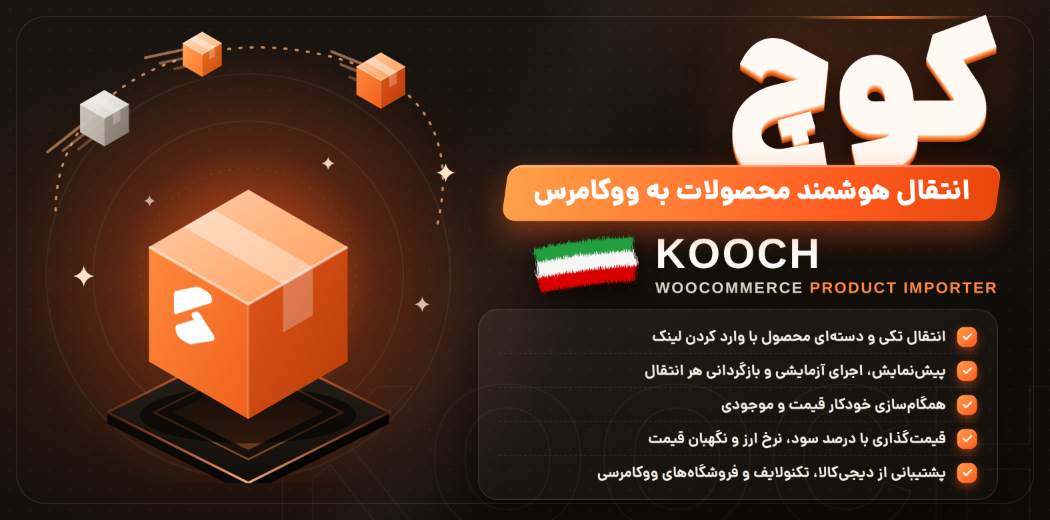
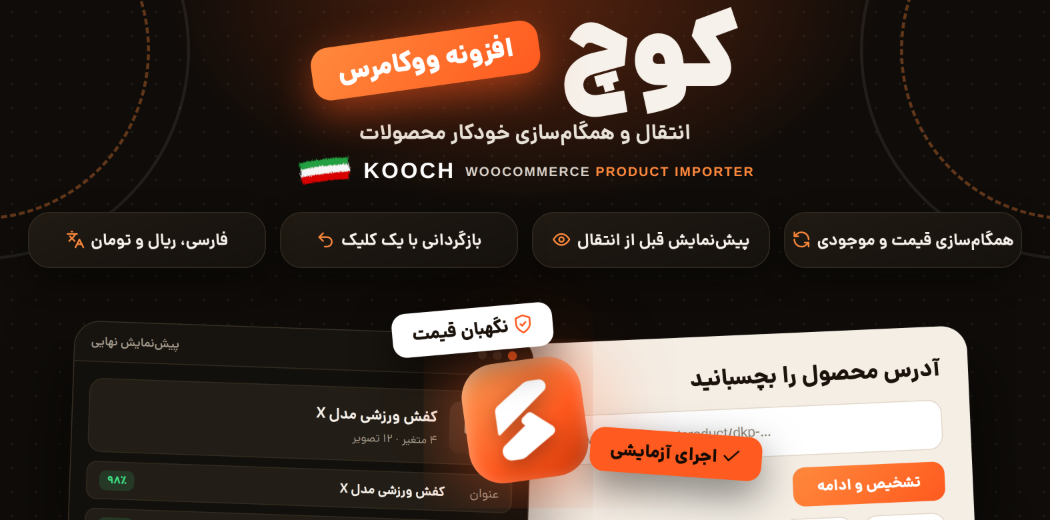
Kooch cover: restore preferred layout, add English name and Iranian flag per RTL standard
Claude-Session: https://claude.ai/code/session_01HjGiyHhZHcoV6ExRpRRqKD

diff --git a/kooch-showcase/cover.html b/kooch-showcase/cover.html
@@ -1,60 +1,80 @@
-<!doctype html><html lang="fa" dir="rtl"><head><meta charset="utf-8"><title>کوچ | کاور</title><style>
+<!doctype html><html lang="fa" dir="rtl"><head><meta charset="utf-8"><title>کوچ | کاور</title>
+<style>
 @font-face{font-family:Dana;src:url(DanaVF.ttf);font-weight:100 1000}
+:root{--o:#ff5a1f;--o2:#ff8a3d;--bg:#0f0c09;--card:#191510;--card2:#221d16;--line:#332b21;--tx:#f6f1ea;--mu:#a39a8c;--ok:#3ddc84}
 *{box-sizing:border-box;margin:0;padding:0}
-body{background:#000;font-family:Dana,Tahoma,sans-serif}
-.c{width:1050px;height:520px;position:relative;overflow:hidden;background:
- radial-gradient(520px 380px at 23% 58%,rgba(255,90,31,.20),transparent 70%),
- radial-gradient(420px 260px at 80% 0,rgba(255,138,61,.12),transparent 70%),
- linear-gradient(115deg,transparent 40%,rgba(255,255,255,.035) 48%,transparent 56%),
- radial-gradient(rgba(255,255,255,.05) 1px,transparent 1.3px) 0 0/20px 20px,
- linear-gradient(160deg,#1b1611,#0e0b08)}
-.wm{position:absolute;right:-30px;bottom:-60px;font-family:Arial Black,Arial,sans-serif;font-size:210px;font-weight:900;color:transparent;-webkit-text-stroke:1.5px rgba(255,255,255,.045);letter-spacing:6px}
-.frame{position:absolute;inset:16px;border:1.5px solid rgba(255,255,255,.10);border-radius:30px}
-.frame::before{content:"";position:absolute;right:60px;top:-1.5px;width:180px;height:3px;border-radius:3px;background:linear-gradient(90deg,transparent,#ff7a2d,transparent)}
-.vec{position:absolute;left:18px;top:-6px;width:470px;height:489px}
-.r{position:absolute;right:52px;top:22px;width:520px;text-align:right}
-h1{font-size:140px;font-weight:950;line-height:1.05;color:#fff9f3;letter-spacing:-3px;text-shadow:0 1px 0 #ffd9bf,0 2px 0 #ffb27a,0 3px 0 #ff9548,0 4px 0 #f97a30,0 5px 0 #e8621c,0 6px 0 #d4500f,0 7px 0 #bd440a,0 18px 34px rgba(0,0,0,.65),0 0 60px rgba(255,90,31,.25)}
-.ban{position:relative;display:inline-block;margin-top:-4px;background:linear-gradient(90deg,#ffa04a,#ff5a1f 70%,#e8460c);color:#fff;font-weight:900;font-size:27px;padding:7px 28px 10px;border-radius:14px;transform:skewX(-8deg);box-shadow:0 12px 30px rgba(255,90,31,.45),inset 0 2px 0 rgba(255,255,255,.35)}
-.ban span{display:inline-block;transform:skewX(8deg)}
-.en{display:flex;align-items:center;justify-content:flex-end;gap:10px;margin-top:10px;direction:ltr}
-.en .t{text-align:left}
-.en b{display:block;font-family:Arial Black,Arial,sans-serif;font-size:42px;font-weight:900;color:#fff;letter-spacing:2px;line-height:1}
-.en small{display:block;font-family:Arial,sans-serif;font-size:15.5px;font-weight:700;color:#d9d2c9;letter-spacing:1.6px;margin-top:5px}
+body{background:#000;font-family:Dana,Tahoma,sans-serif;color:var(--tx)}
+.i{width:1.15em;height:1.15em;vertical-align:-.22em;fill:none;stroke:currentColor;stroke-width:2;stroke-linecap:round;stroke-linejoin:round}
+.t{width:1050px;height:520px;position:relative;overflow:hidden;background:
+ radial-gradient(520px 300px at 50% 0,rgba(255,90,31,.30),transparent 70%),
+ radial-gradient(rgba(255,255,255,.06) 1.2px,transparent 1.4px) 0 0/24px 24px,var(--bg)}
+/* side route arcs */
+.arc{position:absolute;top:-120px;width:340px;height:340px;border-radius:50%;border:3px dashed rgba(255,138,61,.35)}
+.arc.l{left:-190px}.arc.r{right:-190px}
+.arc.l2{left:-230px;top:-160px;width:420px;height:420px;border-color:rgba(255,255,255,.08);border-style:solid}
+.arc.r2{right:-230px;top:-160px;width:420px;height:420px;border-color:rgba(255,255,255,.08);border-style:solid}
+.head{position:absolute;top:14px;left:0;right:0;text-align:center}
+.title{display:inline-flex;align-items:center;gap:20px;direction:rtl}
+.title h1{font-size:92px;font-weight:950;line-height:1;color:var(--tx);letter-spacing:-2px}
+.badge{background:linear-gradient(135deg,var(--o2),var(--o));color:#fff;font-weight:900;font-size:26px;padding:8px 26px;border-radius:18px;transform:rotate(-8deg);box-shadow:0 12px 40px rgba(255,90,31,.55)}
+.sub{margin-top:12px;font-size:21px;font-weight:700;color:#e8e2d9}
+.pills{position:absolute;top:212px;left:28px;right:28px;display:flex;gap:14px;direction:rtl}
+.pill{flex:1;background:linear-gradient(160deg,#211b14,#15110d);border:1px solid var(--line);border-radius:22px;padding:15px 6px;text-align:center;white-space:nowrap;font-size:16.5px;font-weight:700;position:relative;box-shadow:0 10px 30px rgba(0,0,0,.4)}
+
+.pill .i{color:var(--o2);margin-inline-start:6px}
+/* panels */
+.p{position:absolute;bottom:-78px;border-radius:26px;overflow:hidden;box-shadow:0 30px 70px rgba(0,0,0,.65)}
+.light{right:78px;width:500px;height:262px;background:#f4eee5;color:#1a120b;transform:rotate(-2.5deg);padding:26px 28px}
+.light h3{font-size:23px;font-weight:800;margin-bottom:14px}
+.in{background:#fff;border:1px solid #e2d8c9;border-radius:14px;padding:14px 16px;color:#8a7f70;font-size:14px;direction:ltr;text-align:left}
+.cta{display:inline-block;margin-top:12px;background:linear-gradient(135deg,var(--o2),var(--o));color:#fff;font-weight:800;padding:9px 24px;border-radius:12px;font-size:15px}
+.det{display:flex;gap:8px;margin-top:12px;direction:rtl}
+.det span{background:#fff;border:1px solid #e2d8c9;border-radius:99px;padding:5px 12px;font-size:12.5px;color:#4a3f31}
+.dark{left:70px;width:460px;height:270px;background:#12100c;border:1px solid #3a3126;transform:rotate(2deg)}
+.dark .bar{display:flex;gap:6px;align-items:center;padding:11px 16px;background:#17130e;border-bottom:1px solid var(--line);font-size:12px;color:var(--mu)}
+.dark .bar i{width:9px;height:9px;border-radius:50%;background:#3a3126}.dark .bar i:first-child{background:var(--o)}.dark .bar b{margin-inline-start:auto;font-weight:600}
+.dark .b{padding:16px;display:flex;flex-direction:column;gap:9px}
+.prod{display:flex;gap:12px;align-items:center;background:var(--card2);border:1px solid var(--line);border-radius:14px;padding:10px 12px}
+.prod .im{width:52px;height:52px;border-radius:10px;background:linear-gradient(135deg,#3a3128,#221c15);display:grid;place-items:center;color:var(--mu)}
+.prod .im .i{width:26px;height:26px}
+.fld{display:flex;align-items:center;gap:10px;background:var(--card2);border:1px solid var(--line);border-radius:10px;padding:8px 12px;font-size:13px}
+.fld .l{color:var(--mu);width:44px}.fld .v{flex:1;font-weight:700}
+.cf{font-size:11px;font-weight:800;padding:2px 8px;border-radius:7px;background:rgba(61,220,132,.15);color:var(--ok)}
+/* center icon */
+.core{position:absolute;left:50%;bottom:40px;width:120px;height:120px;border-radius:34px;background:linear-gradient(145deg,#ffa25a,var(--o) 60%,#d93a08);display:grid;place-items:center;box-shadow:0 0 90px rgba(255,90,31,.7),inset 0 4px 16px rgba(255,255,255,.35);z-index:5;transform:translateX(-50%) rotate(-8deg)}
+.core img{width:80px;filter:brightness(0) invert(1) drop-shadow(0 6px 10px rgba(0,0,0,.3))}
+.chip{position:absolute;background:#fff;color:#1a120b;font-weight:800;font-size:18px;padding:9px 20px;border-radius:14px;box-shadow:0 14px 40px rgba(0,0,0,.5);z-index:6}
+.chip .i{color:var(--o)}
+.c1{left:392px;bottom:168px;transform:rotate(-5deg)}
+.c2{left:590px;bottom:44px;transform:rotate(4deg);background:var(--o);color:#150b04}.c2 .i{color:#150b04}
+.arrow{position:absolute;bottom:150px;height:0;border-top:3px dashed rgba(255,138,61,.9);z-index:4}
+.en{display:inline-flex;align-items:center;gap:10px;margin-top:6px;direction:ltr}
+.en b{font-family:Arial Black,Arial,sans-serif;font-size:22px;font-weight:900;color:#fff;letter-spacing:2px}
+.en small{font-family:Arial,sans-serif;font-size:13px;font-weight:700;color:#d9d2c9;letter-spacing:1.4px}
 .en small em{font-style:normal;color:#ff8a3d}
-.flag{width:118px;height:68px;filter:drop-shadow(0 6px 10px rgba(0,0,0,.5))}
-ul{list-style:none;margin-top:10px;background:linear-gradient(160deg,rgba(255,255,255,.06),rgba(255,255,255,.015));border:1px solid rgba(255,255,255,.10);border-radius:20px;padding:10px 20px;box-shadow:0 16px 40px rgba(0,0,0,.35)}
-li{color:#f4eee6;font-size:15px;font-weight:700;line-height:1;display:flex;align-items:center;gap:11px;padding:6.5px 0;border-bottom:1px dashed rgba(255,255,255,.07)}
-li:last-child{border:0}
-li i{width:20px;height:20px;border-radius:7px;background:linear-gradient(135deg,#ffa04a,#ff5a1f);display:grid;place-items:center;flex:none;box-shadow:0 4px 10px rgba(255,90,31,.45)}
-li i svg{width:13px;height:13px}
-</style></head><body><div class="c"><div class="wm">KOOCH</div><div class="frame"></div><svg class="vec" viewBox="0 0 500 520" xmlns="http://www.w3.org/2000/svg">
-<defs>
-<filter id="white"><feFlood flood-color="#fff"/><feComposite in2="SourceAlpha" operator="in"/></filter>
-<radialGradient id="gl"><stop offset="0" stop-color="#ff5a1f" stop-opacity=".8"/><stop offset=".55" stop-color="#ff5a1f" stop-opacity=".18"/><stop offset="1" stop-color="#ff5a1f" stop-opacity="0"/></radialGradient>
-<linearGradient id="plat" x1="0" y1="0" x2="0" y2="1"><stop offset="0" stop-color="#2a221b"/><stop offset="1" stop-color="#120e0b"/></linearGradient>
-<linearGradient id="edge" x1="0" y1="0" x2="1" y2="0"><stop offset="0" stop-color="#ff5a1f" stop-opacity=".2"/><stop offset=".5" stop-color="#ffb27a"/><stop offset="1" stop-color="#ff5a1f" stop-opacity=".2"/></linearGradient>
-<linearGradient id="beam" x1="0" y1="1" x2="0" y2="0"><stop offset="0" stop-color="#ff7a2d" stop-opacity=".55"/><stop offset="1" stop-color="#ff7a2d" stop-opacity="0"/></linearGradient>
-</defs>
-<circle cx="245" cy="300" r="250" fill="url(#gl)"/>
-<g fill="none" stroke="#fff" stroke-opacity=".06" stroke-width="1.5"><circle cx="245" cy="300" r="215"/><circle cx="245" cy="300" r="165"/><circle cx="245" cy="300" r="115" stroke-dasharray="3 7"/></g>
-<!-- platform -->
-<polygon points="245,370 395,445 245,520 95,445" fill="url(#plat)"/>
-<polygon points="95,445 245,520 245,532 95,457" fill="#0b0907"/><polygon points="245,520 395,445 395,457 245,532" fill="#070504"/>
-<polyline points="95,445 245,370 395,445 245,520 95,445" fill="none" stroke="url(#edge)" stroke-width="2.5"/>
-<polygon points="245,395 345,445 245,495 145,445" fill="none" stroke="#ff8a3d" stroke-opacity=".45" stroke-width="2"/>
-<polygon points="165,445 245,405 325,445 245,485" fill="url(#beam)" opacity=".7"/>
-<!-- route -->
-<path d="M40 230 C 40 110, 170 40, 300 60 S 470 150, 445 250" fill="none" stroke="#ffb27a" stroke-opacity=".75" stroke-width="2.5" stroke-dasharray="2 10" stroke-linecap="round"/>
-<line x1="92" y1="123" x2="22" y2="123" stroke="#ffb27a" stroke-opacity="0.55" stroke-width="3" stroke-linecap="round" transform="rotate(-38 92 132)"/><line x1="92" y1="132" x2="36" y2="132" stroke="#ffb27a" stroke-opacity="0.43000000000000005" stroke-width="3" stroke-linecap="round" transform="rotate(-38 92 132)"/><line x1="92" y1="141" x2="50" y2="141" stroke="#ffb27a" stroke-opacity="0.31000000000000005" stroke-width="3" stroke-linecap="round" transform="rotate(-38 92 132)"/><defs><linearGradient id="t1" x1="0" y1="0" x2="1" y2="1"><stop offset="0" stop-color="#ffffff"/><stop offset="1" stop-color="#e2ddd6"/></linearGradient><linearGradient id="l1" x1="0" y1="0" x2="1" y2="1"><stop offset="0" stop-color="#d6cfc6"/><stop offset="1" stop-color="#b9b0a5"/></linearGradient><linearGradient id="r1" x1="0" y1="0" x2="1" y2="1"><stop offset="0" stop-color="#a39a8e"/><stop offset="1" stop-color="#857c71"/></linearGradient></defs><g opacity="0.95"><polygon points="92,102 117.98,117.0 92,132 66.02,117.0" fill="url(#t1)"/><polygon points="66.02,117.0 92,132 92,162 66.02,147.0" fill="url(#l1)"/><polygon points="92,132 117.98,117.0 117.98,147.0 92,162" fill="url(#r1)"/><polyline points="66.02,117.0 92,132 117.98,117.0" fill="none" stroke="#fff" stroke-opacity=".55" stroke-width="1"/><line x1="92" y1="132" x2="92" y2="162" stroke="#fff" stroke-opacity=".18" stroke-width="1"/><polygon points="75.113,111.75 101.09299999999999,126.75 108.887,122.25 82.90700000000001,107.25" fill="#fff" fill-opacity=".38"/><polygon points="101.09299999999999,126.75 108.887,122.25 108.887,134.85 101.09299999999999,139.35" fill="#fff" fill-opacity=".25"/></g>
-<line x1="196" y1="55" x2="136" y2="55" stroke="#ffb27a" stroke-opacity="0.55" stroke-width="3" stroke-linecap="round" transform="rotate(-12 196 64)"/><line x1="196" y1="64" x2="150" y2="64" stroke="#ffb27a" stroke-opacity="0.43000000000000005" stroke-width="3" stroke-linecap="round" transform="rotate(-12 196 64)"/><line x1="196" y1="73" x2="164" y2="73" stroke="#ffb27a" stroke-opacity="0.31000000000000005" stroke-width="3" stroke-linecap="round" transform="rotate(-12 196 64)"/><defs><linearGradient id="t2" x1="0" y1="0" x2="1" y2="1"><stop offset="0" stop-color="#ffe0c2"/><stop offset="1" stop-color="#ffb47a"/></linearGradient><linearGradient id="l2" x1="0" y1="0" x2="1" y2="1"><stop offset="0" stop-color="#ffa35a"/><stop offset="1" stop-color="#ff7a2d"/></linearGradient><linearGradient id="r2" x1="0" y1="0" x2="1" y2="1"><stop offset="0" stop-color="#f06a22"/><stop offset="1" stop-color="#c9500f"/></linearGradient></defs><g opacity="1"><polygon points="196,40 216.784,52.0 196,64 175.216,52.0" fill="url(#t2)"/><polygon points="175.216,52.0 196,64 196,88 175.216,76.0" fill="url(#l2)"/><polygon points="196,64 216.784,52.0 216.784,76.0 196,88" fill="url(#r2)"/><polyline points="175.216,52.0 196,64 216.784,52.0" fill="none" stroke="#fff" stroke-opacity=".55" stroke-width="1"/><line x1="196" y1="64" x2="196" y2="88" stroke="#fff" stroke-opacity=".18" stroke-width="1"/><polygon points="182.4904,47.8 203.27439999999999,59.8 209.5096,56.2 188.72560000000001,44.2" fill="#fff" fill-opacity=".38"/><polygon points="203.27439999999999,59.8 209.5096,56.2 209.5096,66.28 203.27439999999999,69.88" fill="#fff" fill-opacity=".25"/></g>
-<line x1="386" y1="83" x2="326" y2="83" stroke="#ffb27a" stroke-opacity="0.55" stroke-width="3" stroke-linecap="round" transform="rotate(22 386 92)"/><line x1="386" y1="92" x2="340" y2="92" stroke="#ffb27a" stroke-opacity="0.43000000000000005" stroke-width="3" stroke-linecap="round" transform="rotate(22 386 92)"/><line x1="386" y1="101" x2="354" y2="101" stroke="#ffb27a" stroke-opacity="0.31000000000000005" stroke-width="3" stroke-linecap="round" transform="rotate(22 386 92)"/><defs><linearGradient id="t3" x1="0" y1="0" x2="1" y2="1"><stop offset="0" stop-color="#ffd1ad"/><stop offset="1" stop-color="#ff9a55"/></linearGradient><linearGradient id="l3" x1="0" y1="0" x2="1" y2="1"><stop offset="0" stop-color="#ff8a3d"/><stop offset="1" stop-color="#f0601c"/></linearGradient><linearGradient id="r3" x1="0" y1="0" x2="1" y2="1"><stop offset="0" stop-color="#e0561a"/><stop offset="1" stop-color="#b83c08"/></linearGradient></defs><g opacity="1"><polygon points="386,62 411.98,77.0 386,92 360.02,77.0" fill="url(#t3)"/><polygon points="360.02,77.0 386,92 386,122 360.02,107.0" fill="url(#l3)"/><polygon points="386,92 411.98,77.0 411.98,107.0 386,122" fill="url(#r3)"/><polyline points="360.02,77.0 386,92 411.98,77.0" fill="none" stroke="#fff" stroke-opacity=".55" stroke-width="1"/><line x1="386" y1="92" x2="386" y2="122" stroke="#fff" stroke-opacity=".18" stroke-width="1"/><polygon points="369.113,71.75 395.093,86.75 402.887,82.25 376.907,67.25" fill="#fff" fill-opacity=".38"/><polygon points="395.093,86.75 402.887,82.25 402.887,94.85 395.093,99.35" fill="#fff" fill-opacity=".25"/></g>
-<!-- main box shadow -->
-<ellipse cx="245" cy="448" rx="115" ry="30" fill="#000" fill-opacity=".55"/>
-<defs><linearGradient id="t4" x1="0" y1="0" x2="1" y2="1"><stop offset="0" stop-color="#ffd1ad"/><stop offset="1" stop-color="#ff9a55"/></linearGradient><linearGradient id="l4" x1="0" y1="0" x2="1" y2="1"><stop offset="0" stop-color="#ff8a3d"/><stop offset="1" stop-color="#f0601c"/></linearGradient><linearGradient id="r4" x1="0" y1="0" x2="1" y2="1"><stop offset="0" stop-color="#e0561a"/><stop offset="1" stop-color="#b83c08"/></linearGradient></defs><g opacity="1"><polygon points="245,208 350.652,269.0 245,330 139.348,269.0" fill="url(#t4)"/><polygon points="139.348,269.0 245,330 245,452 139.348,391.0" fill="url(#l4)"/><polygon points="245,330 350.652,269.0 350.652,391.0 245,452" fill="url(#r4)"/><polyline points="139.348,269.0 245,330 350.652,269.0" fill="none" stroke="#fff" stroke-opacity=".55" stroke-width="3.05"/><line x1="245" y1="330" x2="245" y2="452" stroke="#fff" stroke-opacity=".18" stroke-width="2.44"/><polygon points="176.3262,247.65 281.9782,308.65 313.6738,290.35 208.0218,229.35" fill="#fff" fill-opacity=".38"/><polygon points="281.9782,308.65 313.6738,290.35 313.6738,341.59000000000003 281.9782,359.89" fill="#fff" fill-opacity=".25"/><g transform="matrix(0.866,0.5,0,1,157.30884,289.74)"><image href="kooch-icon.png" width="69.73032" height="69.73032" filter="url(#white)"/></g></g>
-<path d="M70 289 Q71.98 298.02 81 300 Q71.98 301.98 70 311 Q68.02 301.98 59 300 Q68.02 298.02 70 289Z" fill="#ffe3cc" opacity="1"/><path d="M430 322 Q431.44 328.56 438 330 Q431.44 331.44 430 338 Q428.56 331.44 422 330 Q428.56 328.56 430 322Z" fill="#ffe3cc" opacity="0.8"/><path d="M330 173 Q331.26 178.74 337 180 Q331.26 181.26 330 187 Q328.74 181.26 323 180 Q328.74 178.74 330 173Z" fill="#ffe3cc" opacity="0.9"/><path d="M140 214 Q141.08 218.92 146 220 Q141.08 221.08 140 226 Q138.92 221.08 134 220 Q138.92 218.92 140 214Z" fill="#ffe3cc" opacity="0.7"/><path d="M455 180 Q456.8 188.2 465 190 Q456.8 191.8 455 200 Q453.2 191.8 445 190 Q453.2 188.2 455 180Z" fill="#ffe3cc" opacity="1"/>
-</svg>
-<div class="r"><h1>کوچ</h1><div class="ban"><span>انتقال هوشمند محصولات به ووکامرس</span></div>
-<div class="en"><svg class="flag" viewBox="0 0 140 80"><defs>
-<filter id="br" x="-10%" y="-20%" width="120%" height="140%"><feTurbulence type="fractalNoise" baseFrequency="1.2 .06" numOctaves="3" seed="7" result="n"/><feDisplacementMap in="SourceGraphic" in2="n" scale="12" xChannelSelector="R" yChannelSelector="G"/></filter></defs>
-<g filter="url(#br)" transform="rotate(-7 70 40)"><path d="M10 14 Q70 8 130 14 L128 30 Q70 26 12 30Z" fill="#239f40"/><path d="M12 30 Q70 26 128 30 L130 48 Q70 44 10 48Z" fill="#f6f6f6"/><path d="M10 48 Q70 44 130 48 L126 66 Q70 62 14 66Z" fill="#da0000"/></g></svg><div class="t"><b>KOOCH</b><small>WOOCOMMERCE <em>PRODUCT IMPORTER</em></small></div></div>
-<ul><li><i><svg viewBox="0 0 24 24"><path d="M5 12.5l4.5 4.5L19 7.5" fill="none" stroke="#fff" stroke-width="3.2" stroke-linecap="round" stroke-linejoin="round"/></svg></i>انتقال تکی و دستهای محصول با وارد کردن لینک</li><li><i><svg viewBox="0 0 24 24"><path d="M5 12.5l4.5 4.5L19 7.5" fill="none" stroke="#fff" stroke-width="3.2" stroke-linecap="round" stroke-linejoin="round"/></svg></i>پیشنمایش، اجرای آزمایشی و بازگردانی هر انتقال</li><li><i><svg viewBox="0 0 24 24"><path d="M5 12.5l4.5 4.5L19 7.5" fill="none" stroke="#fff" stroke-width="3.2" stroke-linecap="round" stroke-linejoin="round"/></svg></i>همگامسازی خودکار قیمت و موجودی</li><li><i><svg viewBox="0 0 24 24"><path d="M5 12.5l4.5 4.5L19 7.5" fill="none" stroke="#fff" stroke-width="3.2" stroke-linecap="round" stroke-linejoin="round"/></svg></i>قیمتگذاری با درصد سود، نرخ ارز و نگهبان قیمت</li><li><i><svg viewBox="0 0 24 24"><path d="M5 12.5l4.5 4.5L19 7.5" fill="none" stroke="#fff" stroke-width="3.2" stroke-linecap="round" stroke-linejoin="round"/></svg></i>پشتیبانی از دیجیکالا، تکنولایف و فروشگاههای ووکامرسی</li></ul></div></div></body></html>
+.flag{width:58px;height:34px}
+</style></head><body><svg width="0" height="0" style="position:absolute" aria-hidden="true"><symbol id="i-link" viewBox="0 0 24 24"><path d="M10 13a5 5 0 0 0 7.5.5l3-3a5 5 0 0 0-7-7l-1.7 1.7"/><path d="M14 11a5 5 0 0 0-7.5-.5l-3 3a5 5 0 0 0 7 7l1.7-1.7"/></symbol><symbol id="i-eye" viewBox="0 0 24 24"><path d="M2 12s3.6-7 10-7 10 7 10 7-3.6 7-10 7S2 12 2 12z"/><circle cx="12" cy="12" r="3"/></symbol><symbol id="i-box" viewBox="0 0 24 24"><path d="M21 8 12 3 3 8v8l9 5 9-5z"/><path d="M3 8l9 5 9-5M12 13v8"/></symbol><symbol id="i-globe" viewBox="0 0 24 24"><circle cx="12" cy="12" r="10"/><path d="M2 12h20M12 2a15 15 0 0 1 0 20M12 2a15 15 0 0 0 0 20"/></symbol><symbol id="i-target" viewBox="0 0 24 24"><circle cx="12" cy="12" r="10"/><circle cx="12" cy="12" r="6"/><circle cx="12" cy="12" r="2"/></symbol><symbol id="i-cog" viewBox="0 0 24 24"><circle cx="12" cy="12" r="3"/><path d="M19.4 15a1.7 1.7 0 0 0 .3 1.8l.1.1a2 2 0 1 1-2.8 2.8l-.1-.1a1.7 1.7 0 0 0-1.8-.3 1.7 1.7 0 0 0-1 1.5V21a2 2 0 1 1-4 0v-.1a1.7 1.7 0 0 0-1.1-1.5 1.7 1.7 0 0 0-1.8.3l-.1.1a2 2 0 1 1-2.8-2.8l.1-.1a1.7 1.7 0 0 0 .3-1.8 1.7 1.7 0 0 0-1.5-1H3a2 2 0 1 1 0-4h.1a1.7 1.7 0 0 0 1.5-1.1 1.7 1.7 0 0 0-.3-1.8l-.1-.1a2 2 0 1 1 2.8-2.8l.1.1a1.7 1.7 0 0 0 1.8.3H9a1.7 1.7 0 0 0 1-1.5V3a2 2 0 1 1 4 0v.1a1.7 1.7 0 0 0 1 1.5 1.7 1.7 0 0 0 1.8-.3l.1-.1a2 2 0 1 1 2.8 2.8l-.1.1a1.7 1.7 0 0 0-.3 1.8V9a1.7 1.7 0 0 0 1.5 1H21a2 2 0 1 1 0 4h-.1a1.7 1.7 0 0 0-1.5 1z"/></symbol><symbol id="i-coins" viewBox="0 0 24 24"><circle cx="8" cy="8" r="6"/><path d="M18.1 10.4A6 6 0 1 1 10.4 18.1M7 6h1v4"/></symbol><symbol id="i-shield" viewBox="0 0 24 24"><path d="M12 22s8-4 8-10V5l-8-3-8 3v7c0 6 8 10 8 10z"/><path d="m9 12 2 2 4-4"/></symbol><symbol id="i-refresh" viewBox="0 0 24 24"><path d="M21 12a9 9 0 0 0-15.5-6.3L3 8"/><path d="M3 3v5h5"/><path d="M3 12a9 9 0 0 0 15.5 6.3L21 16"/><path d="M16 16h5v5"/></symbol><symbol id="i-lock" viewBox="0 0 24 24"><rect x="4" y="11" width="16" height="10" rx="2"/><path d="M8 11V7a4 4 0 0 1 8 0v4"/></symbol><symbol id="i-undo" viewBox="0 0 24 24"><path d="M9 14 4 9l5-5"/><path d="M4 9h10a6 6 0 0 1 0 12h-3"/></symbol><symbol id="i-alert" viewBox="0 0 24 24"><path d="M10.3 3.9 1.8 18a2 2 0 0 0 1.7 3h17a2 2 0 0 0 1.7-3L13.7 3.9a2 2 0 0 0-3.4 0z"/><path d="M12 9v4M12 17h.01"/></symbol><symbol id="i-bell" viewBox="0 0 24 24"><path d="M18 8a6 6 0 0 0-12 0c0 7-3 9-3 9h18s-3-2-3-9"/><path d="M13.7 21a2 2 0 0 1-3.4 0"/></symbol><symbol id="i-mail" viewBox="0 0 24 24"><rect x="2" y="4" width="20" height="16" rx="2"/><path d="m22 7-10 6L2 7"/></symbol><symbol id="i-send" viewBox="0 0 24 24"><path d="m22 2-7 20-4-9-9-4z"/><path d="M22 2 11 13"/></symbol><symbol id="i-chat" viewBox="0 0 24 24"><path d="M21 15a2 2 0 0 1-2 2H7l-4 4V5a2 2 0 0 1 2-2h14a2 2 0 0 1 2 2z"/></symbol><symbol id="i-hook" viewBox="0 0 24 24"><circle cx="12" cy="5" r="3"/><path d="M12 8v5a4 4 0 0 0 8 0M20 13h-3"/><circle cx="5" cy="17" r="3"/><path d="M5 14c0-3 3-6 7-6"/></symbol><symbol id="i-spark" viewBox="0 0 24 24"><path d="M12 3l1.9 5.1L19 10l-5.1 1.9L12 17l-1.9-5.1L5 10l5.1-1.9z"/><path d="M19 15l.7 1.8L21.5 17.5l-1.8.7L19 20l-.7-1.8-1.8-.7 1.8-.7z"/></symbol><symbol id="i-check" viewBox="0 0 24 24"><path d="M20 6 9 17l-5-5"/></symbol><symbol id="i-lang" viewBox="0 0 24 24"><path d="m5 8 6 6M4 14l6-6 2-3M2 5h12M7 2h1M22 22l-5-10-5 10M14 18h6"/></symbol></svg>
+
+<div class="t">
+ <div class="arc l2"></div><div class="arc r2"></div><div class="arc l"></div><div class="arc r"></div>
+ <div class="head"><div class="title"><h1>کوچ</h1><div class="badge">افزونه ووکامرس</div></div>
+ <div class="sub">انتقال و همگامسازی خودکار محصولات</div><div class="en"><svg class="flag" viewBox="0 0 140 80"><defs><filter id="br" x="-10%" y="-20%" width="120%" height="140%"><feTurbulence type="fractalNoise" baseFrequency="1.2 .06" numOctaves="3" seed="7" result="n"/><feDisplacementMap in="SourceGraphic" in2="n" scale="12" xChannelSelector="R" yChannelSelector="G"/></filter></defs><g filter="url(#br)" transform="rotate(-7 70 40)"><path d="M10 14 Q70 8 130 14 L128 30 Q70 26 12 30Z" fill="#239f40"/><path d="M12 30 Q70 26 128 30 L130 48 Q70 44 10 48Z" fill="#f6f6f6"/><path d="M10 48 Q70 44 130 48 L126 66 Q70 62 14 66Z" fill="#da0000"/></g></svg><b>KOOCH</b><small>WOOCOMMERCE <em>PRODUCT IMPORTER</em></small></div></div>
+ <div class="pills">
+  <div class="pill">همگامسازی قیمت و موجودی<svg class="i"><use href="#i-refresh"/></svg></div>
+  <div class="pill">پیشنمایش قبل از انتقال<svg class="i"><use href="#i-eye"/></svg></div>
+  <div class="pill">بازگردانی با یک کلیک<svg class="i"><use href="#i-undo"/></svg></div>
+  <div class="pill">فارسی، ریال و تومان<svg class="i"><use href="#i-lang"/></svg></div>
+ </div>
+ <div class="p light"><h3>آدرس محصول را بچسبانید</h3>
+  <div class="in">https://www.digikala.com/product/dkp-…</div>
+  <div class="cta">تشخیص و ادامه</div>
+  <div class="det"><span>✓ دیجیکالا</span><span>ارز: تومان</span><span>۱۲ تصویر</span></div></div>
+ <div class="p dark"><div class="bar"><i></i><i></i><i></i><b>پیشنمایش نهایی</b></div><div class="b">
+  <div class="prod"><div class="im"><svg class="i"><use href="#i-box"/></svg></div><div style="flex:1"><b style="font-size:15px">کفش ورزشی مدل X</b><div style="font-size:11.5px;color:var(--mu);margin-top:3px">۴ متغیر · ۱۲ تصویر</div></div></div>
+  <div class="fld"><span class="l">عنوان</span><span class="v">کفش ورزشی مدل X</span><span class="cf">۹۸٪</span></div>
+  <div class="fld"><span class="l">قیمت</span><span class="v">۱٬۲۴۹٬۹۰۰ تومان</span><span class="cf">۹۵٪</span></div>
+  <div class="fld"><span class="l">دسته</span><span class="v">کفش › مردانه</span><span class="cf">۹۱٪</span></div></div></div>
+ <div class="core"><img src="kooch-icon.png" alt=""></div>
+ <div class="chip c1"><svg class="i"><use href="#i-shield"/></svg> نگهبان قیمت</div>
+ <div class="chip c2"><svg class="i"><use href="#i-check"/></svg> اجرای آزمایشی</div>
+</div></body></html>
